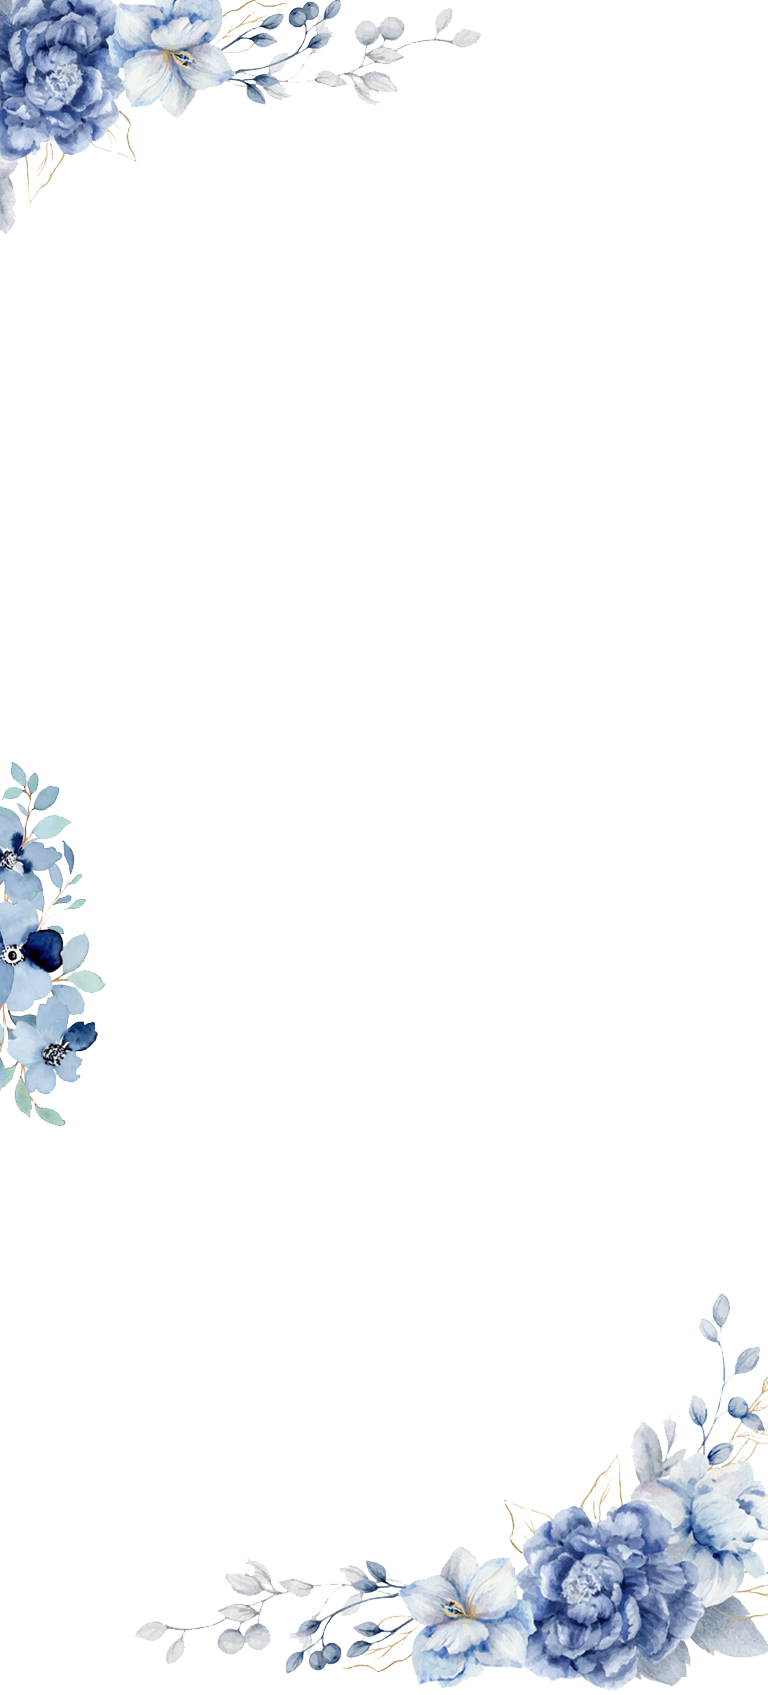
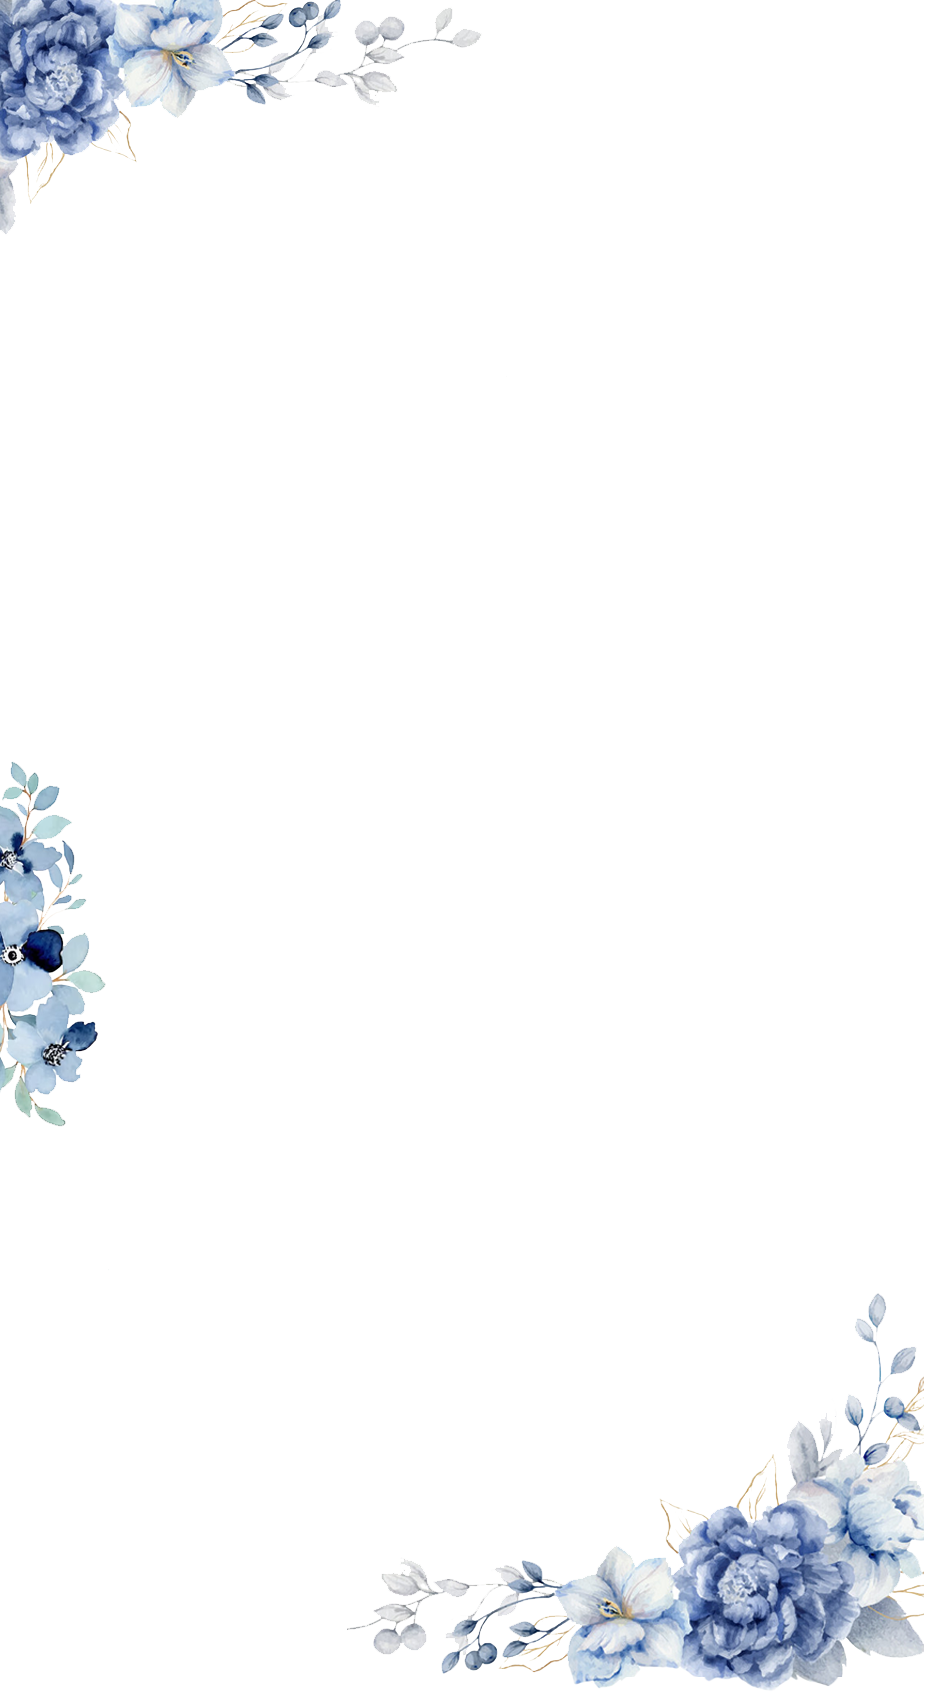
correção de bug

diff --git a/style.css b/style.css
@@ -23,7 +23,7 @@ body{
 main{
     display: flex;
     flex-direction: column;
-    max-width: 500px;
+    max-width: 450px;
     margin: auto;
     background-image: url('imagens/background2.png');
 }
@@ -34,6 +34,8 @@ main{
     flex-direction: column;
     background-image: url('imagens/bloco1.png');
     background-size: cover;
+    background-repeat: no-repeat;
+    
     padding-top: 50px;
     padding-bottom: 70px;
 }
